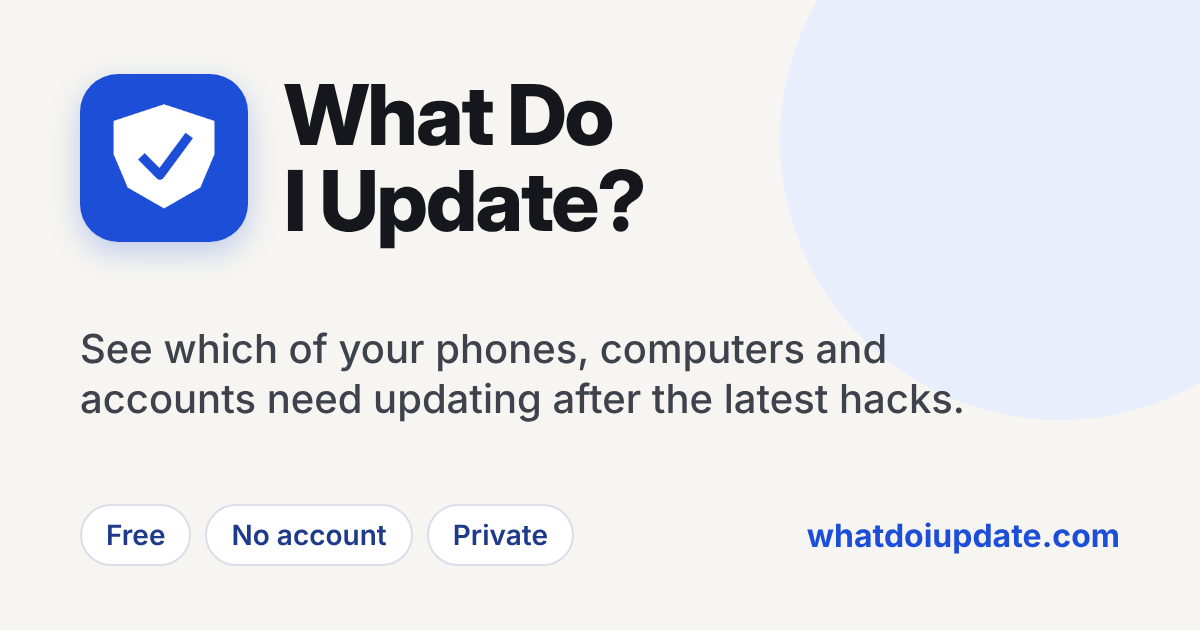
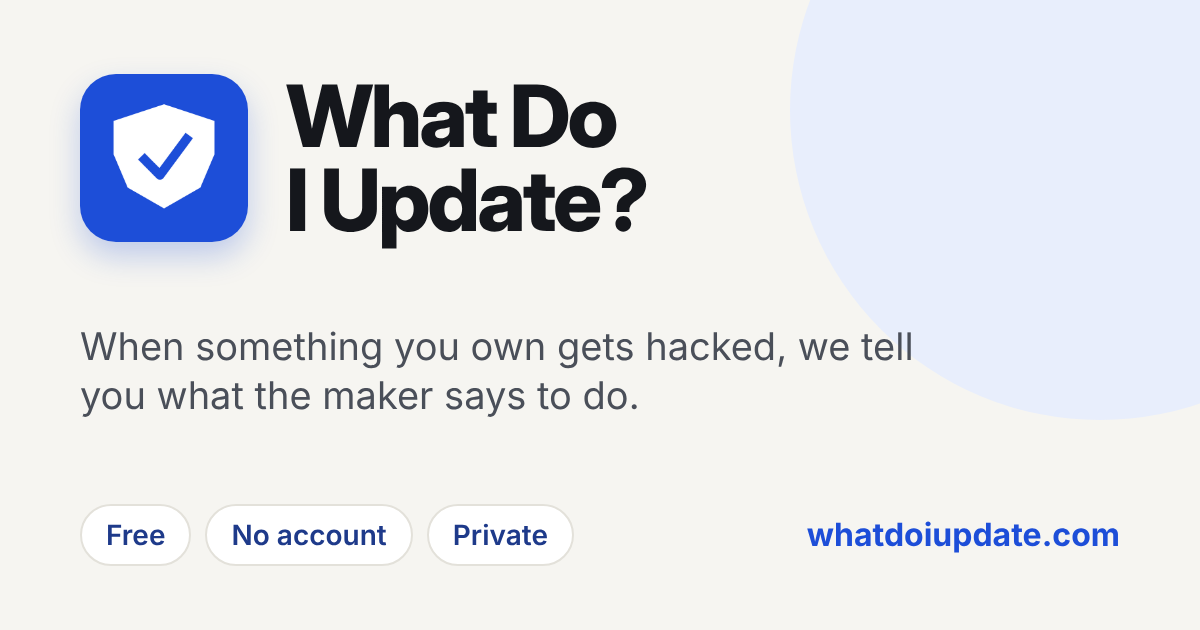
Lead the pitch with an example: link preview and welcome screen (#17)
Claude-Session: https://claude.ai/code/session_01L6UrCd4CGszsaiYgy9Kjte

diff --git a/index.html b/index.html
@@ -4,17 +4,17 @@
 <meta charset="utf-8">
 <meta name="viewport" content="width=device-width, initial-scale=1">
 <title>What Do I Update?</title>
-<meta name="description" content="Free and private: see which of your phones, computers and accounts need updating after the latest hacks. No account, no tracking.">
+<meta name="description" content="When something you own gets hacked, like your iPhone or Chrome, we tell you what Apple or Google says to do, in plain English. Free, no account, no tracking.">
 <!-- Link previews (texts, iMessage, Facebook, X): what shows when someone shares the link -->
 <meta property="og:type" content="website">
 <meta property="og:site_name" content="What Do I Update?">
 <meta property="og:title" content="What Do I Update?">
-<meta property="og:description" content="See which of your phones, computers and accounts need updating after the latest hacks. Free, no account, private.">
+<meta property="og:description" content="When something you own gets hacked, like your iPhone or Chrome, we tell you what Apple or Google says to do. Free, no account, private.">
 <meta property="og:url" content="https://whatdoiupdate.com/">
 <meta property="og:image" content="https://whatdoiupdate.com/og-image.png">
 <meta property="og:image:width" content="1200">
 <meta property="og:image:height" content="630">
-<meta property="og:image:alt" content="What Do I Update? See which of your phones, computers and accounts need updating after the latest hacks.">
+<meta property="og:image:alt" content="What Do I Update? When something you own gets hacked, we tell you what the maker says to do.">
 <meta name="twitter:card" content="summary_large_image">
 <meta name="theme-color" content="#1D4ED8">
 <link rel="manifest" href="manifest.webmanifest">
@@ -660,8 +660,8 @@ function viewAgree() {
 
 function viewWelcome() {
   const fresh = !list().devices.length && !list().custom.length;
-  return [header(), el("h1", {}, "What needs updating, in plain English"),
-    el("p", { class: "sub" }, "Hackers go after old software. This app watches the U.S. government's list of flaws hackers are using right now, and tells you which ones hit the things you own."),
+  return [header(), el("h1", {}, "Know when something you own gets hacked"),
+    el("p", { class: "sub" }, "Like when Apple fixes an iPhone flaw hackers are already using: we tell you in plain English and show what Apple says to do."),
     el("ol", { class: "intro" },
       el("li", {}, el("div", {}, el("b", {}, "Tap what you own"), el("span", {}, "Your phone, computer, TV, router and apps. It takes about 2 minutes."))),
       el("li", {}, el("div", {}, el("b", {}, "See what to fix"), el("span", {}, "Red means do it now. Yellow means this week. Green means you're fine."))),
